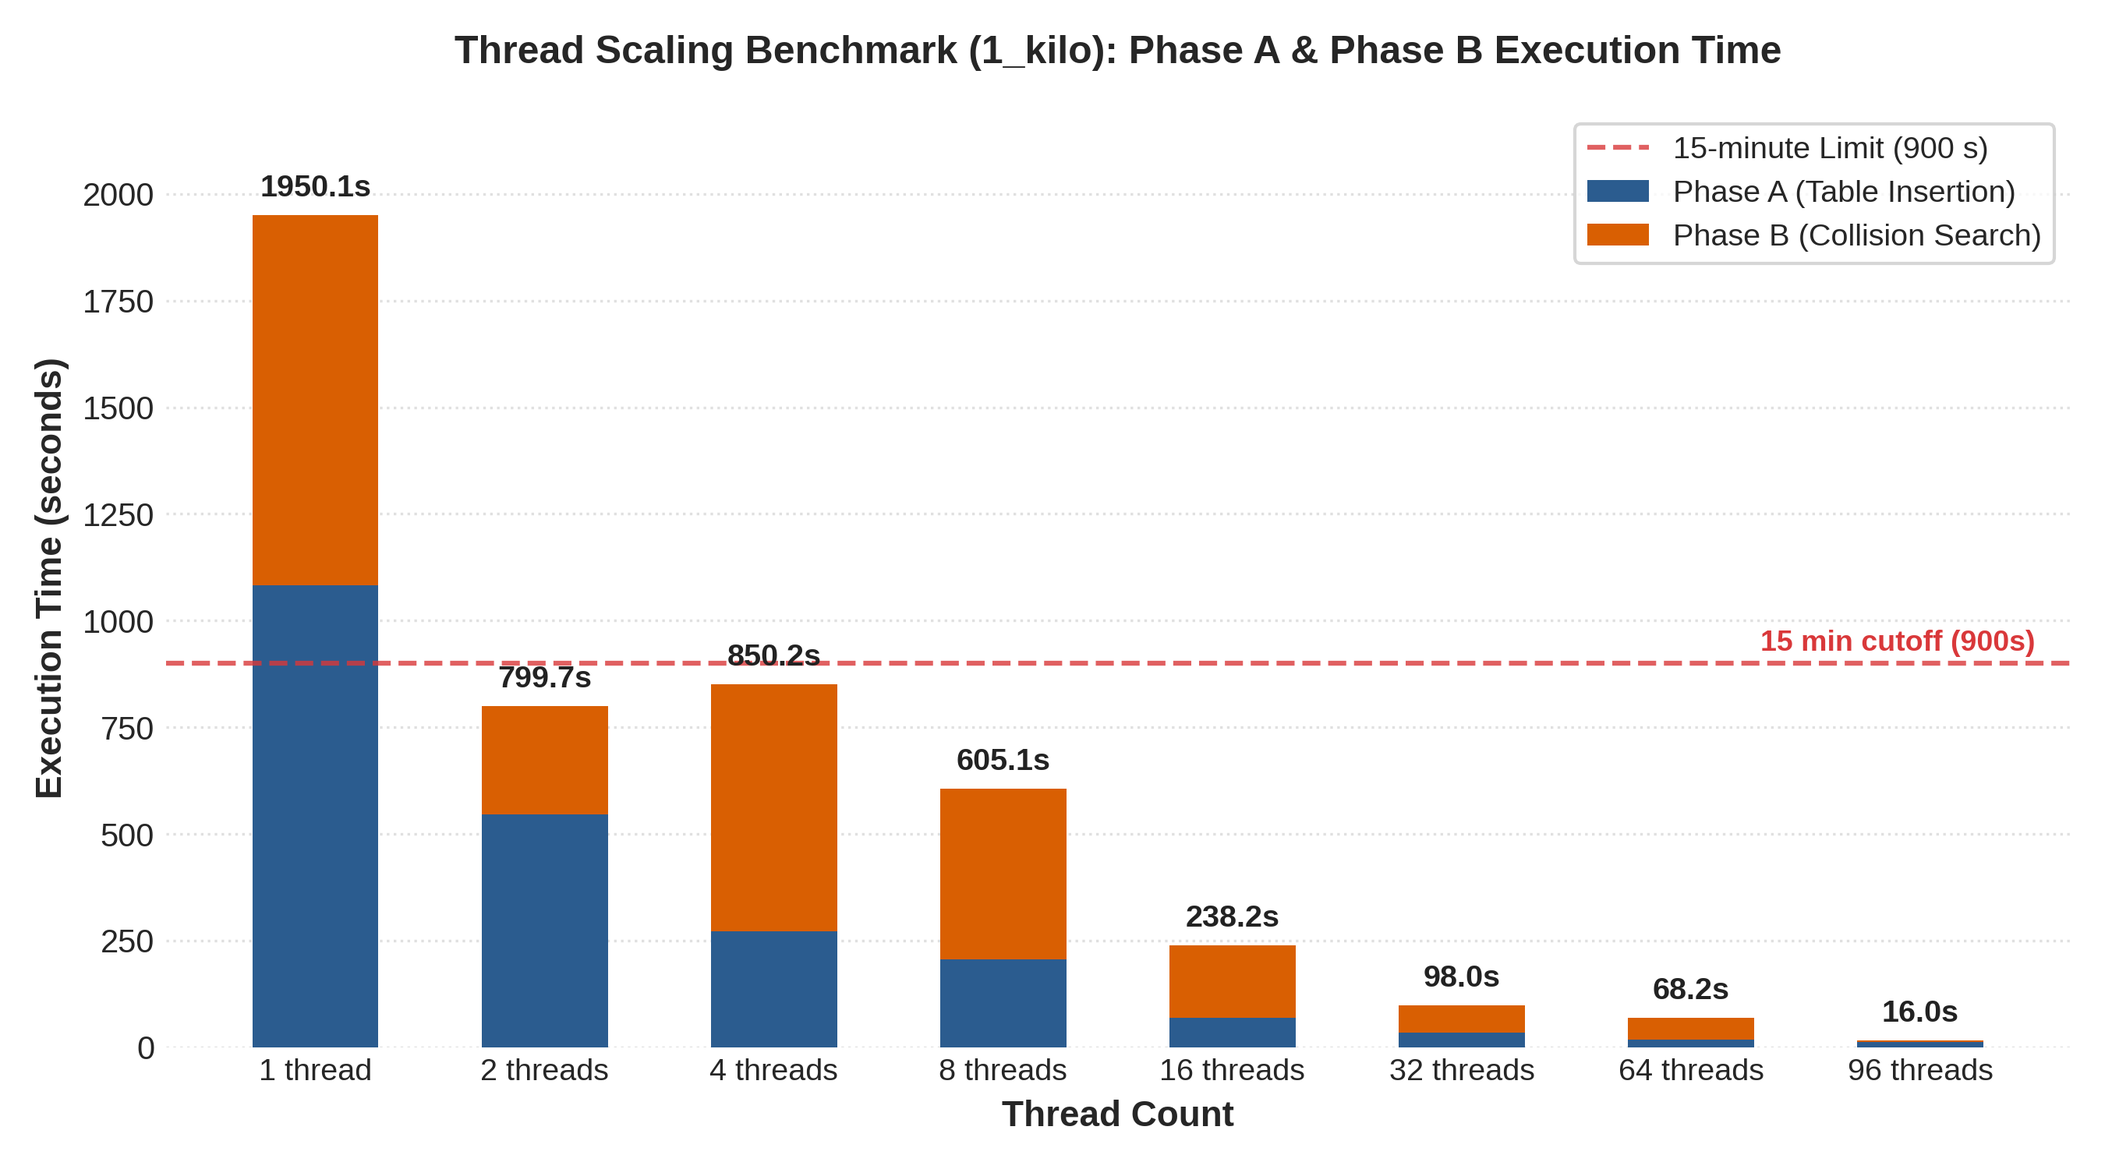
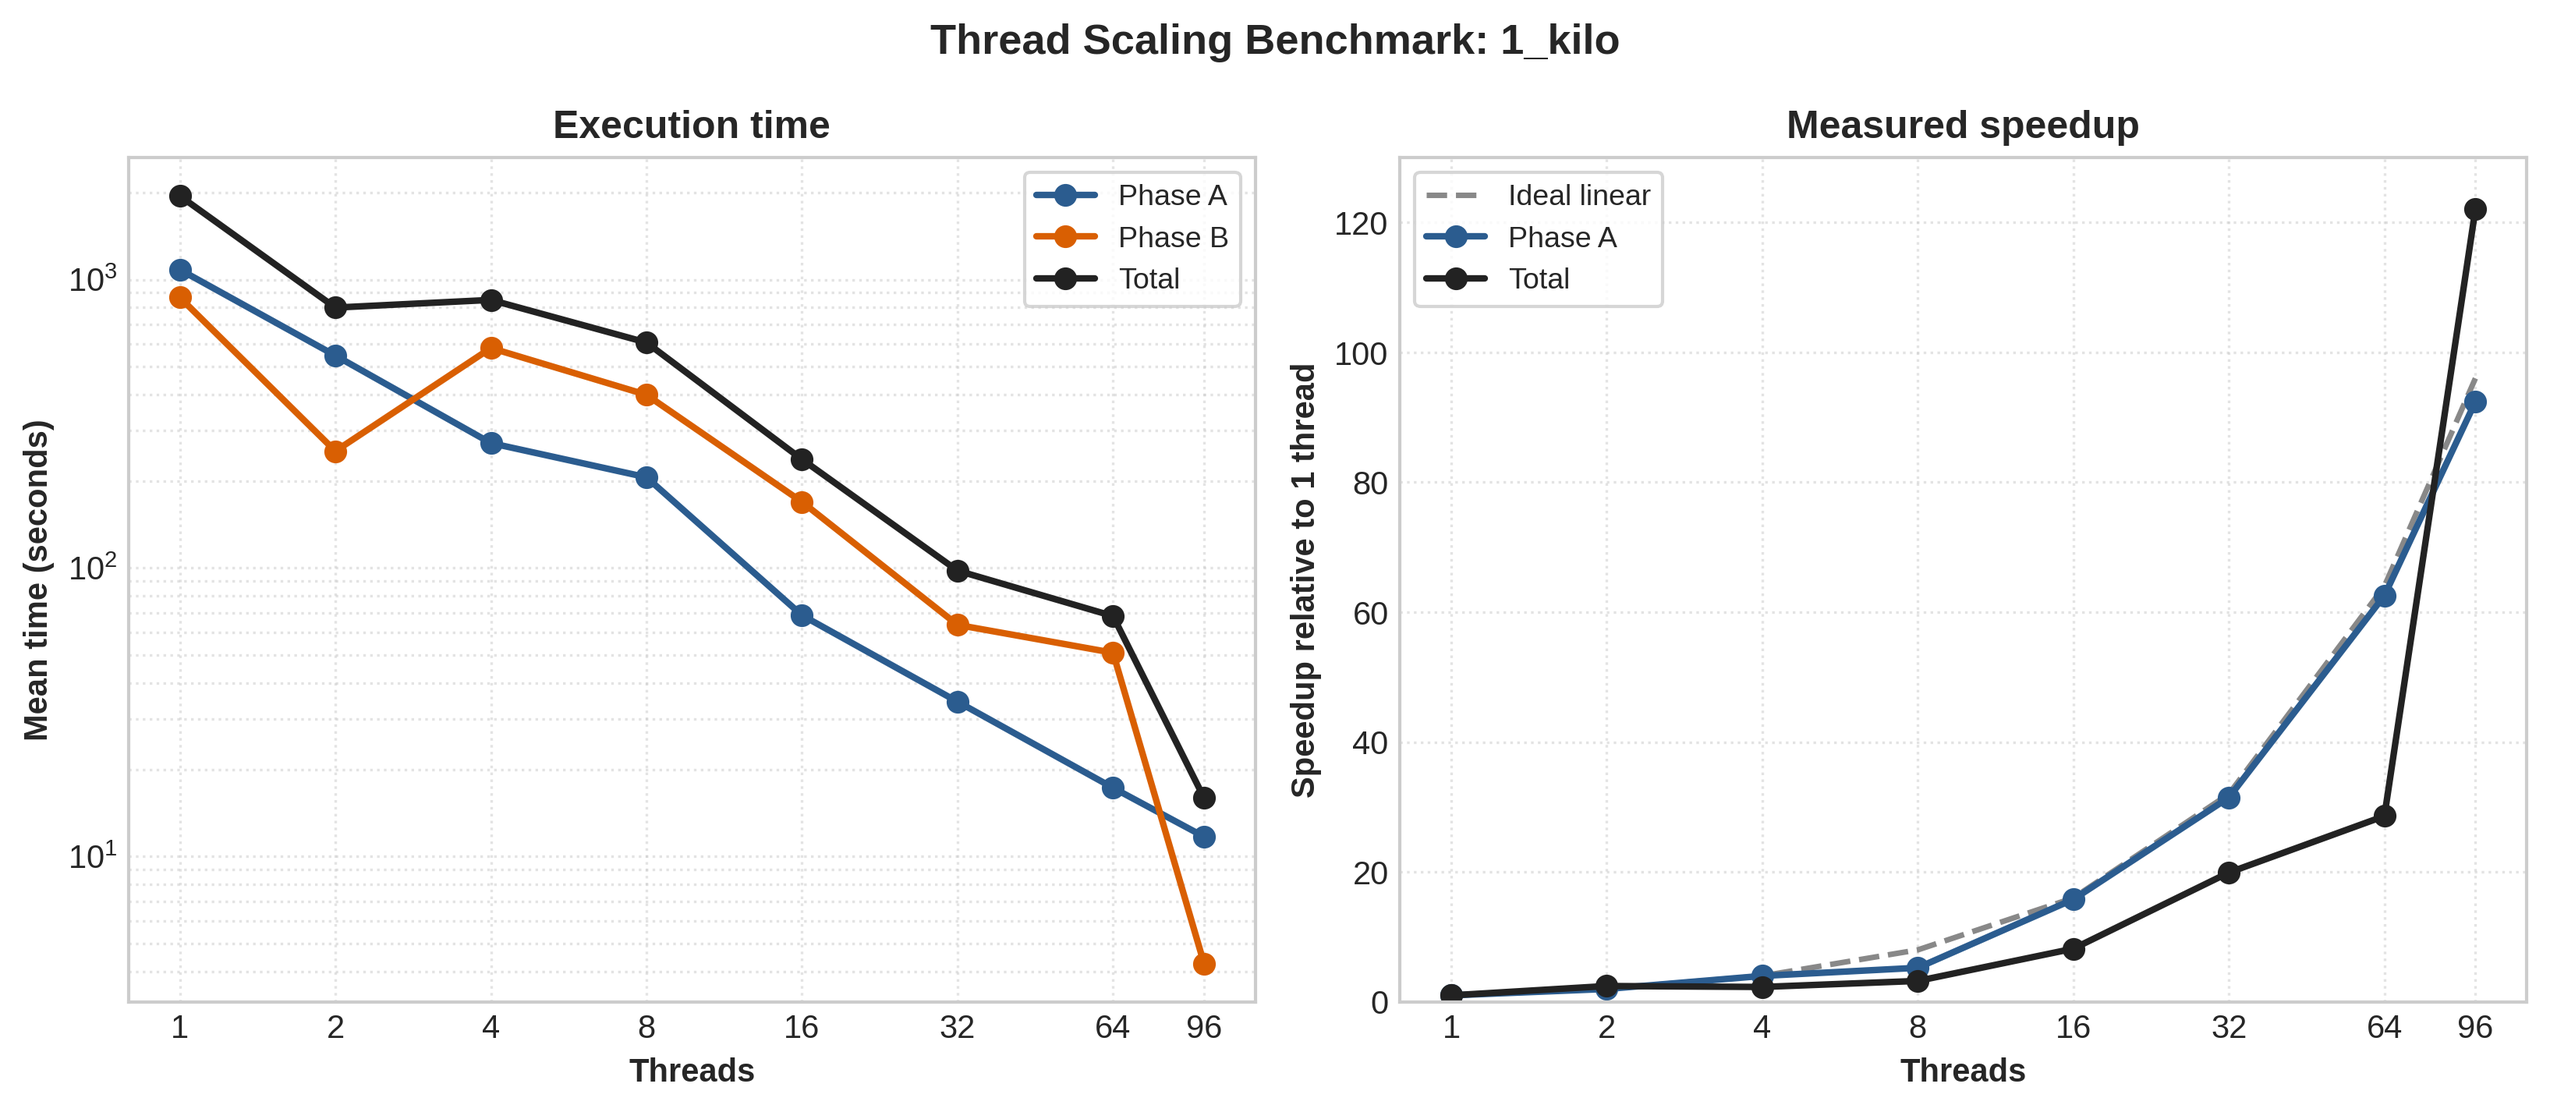
docs(report): refine analysis and graphs

diff --git a/scripts/plot_scaling_kilo.py b/scripts/plot_scaling_kilo.py
@@ -4,45 +4,50 @@ import os
 
 os.makedirs("figures", exist_ok=True)
 
-threads = ["1", "2", "4", "8", "16", "32", "64", "96"]
-phase_a = [1082.85, 545.35, 271.11, 206.44, 68.61, 34.42, 17.31, 11.72]
-phase_b = [867.23, 254.31, 579.09, 398.70, 169.58, 63.55, 50.86, 4.26]
-total = [a + b for a, b in zip(phase_a, phase_b)]
+threads = np.array([1, 2, 4, 8, 16, 32, 64, 96])
+phase_a = np.array([1082.85, 545.35, 271.11, 206.44, 68.61, 34.42, 17.31, 11.72])
+phase_b = np.array([867.23, 254.31, 579.09, 398.70, 169.58, 63.55, 50.86, 4.26])
+total = phase_a + phase_b
+
+phase_a_speedup = phase_a[0] / phase_a
+total_speedup = total[0] / total
 
 plt.style.use("seaborn-v0_8-whitegrid" if "seaborn-v0_8-whitegrid" in plt.style.available else "default")
-fig, ax = plt.subplots(figsize=(9, 5), dpi=300)
-
-width = 0.55
-x = np.arange(len(threads))
+fig, (time_ax, speedup_ax) = plt.subplots(1, 2, figsize=(11, 4.8), dpi=300)
 
 color_a = "#2b5c8f"
 color_b = "#d95f02"
+color_total = "#222222"
 
-ax.bar(x, phase_a, width, label="Phase A (Table Insertion)", color=color_a, edgecolor="none")
-ax.bar(x, phase_b, width, bottom=phase_a, label="Phase B (Collision Search)", color=color_b, edgecolor="none")
+# Logarithmic time axis preserves visibility across the large 1-to-96 range.
+time_ax.plot(threads, phase_a, marker="o", linewidth=2, color=color_a, label="Phase A")
+time_ax.plot(threads, phase_b, marker="o", linewidth=2, color=color_b, label="Phase B")
+time_ax.plot(threads, total, marker="o", linewidth=2, color=color_total, label="Total")
+time_ax.set_xscale("log", base=2)
+time_ax.set_yscale("log")
+time_ax.set_xticks(threads)
+time_ax.set_xticklabels([str(t) for t in threads])
+time_ax.set_xlabel("Threads", fontweight="semibold")
+time_ax.set_ylabel("Mean time (seconds)", fontweight="semibold")
+time_ax.set_title("Execution time", fontweight="bold")
+time_ax.grid(which="both", linestyle=":", alpha=0.55)
+time_ax.legend(frameon=True, facecolor="white", edgecolor="#cccccc", fontsize=9)
 
-# 15-minute threshold line
-ax.axhline(900, color="#d9383a", linestyle="--", linewidth=1.5, alpha=0.8, label="15-minute Limit (900 s)")
-ax.text(len(threads) - 0.5, 930, "15 min cutoff (900s)", color="#d9383a", fontweight="bold", fontsize=9, ha="right")
+# Compare measured speedups with ideal fixed-work scaling.
+speedup_ax.plot(threads, threads, linestyle="--", linewidth=1.7, color="#888888", label="Ideal linear")
+speedup_ax.plot(threads, phase_a_speedup, marker="o", linewidth=2, color=color_a, label="Phase A")
+speedup_ax.plot(threads, total_speedup, marker="o", linewidth=2, color=color_total, label="Total")
+speedup_ax.set_xscale("log", base=2)
+speedup_ax.set_xticks(threads)
+speedup_ax.set_xticklabels([str(t) for t in threads])
+speedup_ax.set_xlabel("Threads", fontweight="semibold")
+speedup_ax.set_ylabel("Speedup relative to 1 thread", fontweight="semibold")
+speedup_ax.set_title("Measured speedup", fontweight="bold")
+speedup_ax.set_ylim(0, 130)
+speedup_ax.grid(which="both", linestyle=":", alpha=0.55)
+speedup_ax.legend(frameon=True, facecolor="white", edgecolor="#cccccc", fontsize=9)
 
-# Annotate total times above each bar
-for i, tot in enumerate(total):
-    ax.text(i, tot + 30, f"{tot:.1f}s", ha="center", va="bottom", fontsize=9.5, fontweight="bold", color="#222222")
-
-ax.set_ylabel("Execution Time (seconds)", fontsize=11, fontweight="semibold")
-ax.set_xlabel("Thread Count", fontsize=11, fontweight="semibold")
-ax.set_title("Thread Scaling Benchmark (1_kilo): Phase A & Phase B Execution Time", fontsize=12, fontweight="bold", pad=14)
-ax.set_xticks(x)
-ax.set_xticklabels([f"{t} threads" if t != "1" else "1 thread" for t in threads], fontsize=9.5)
-ax.set_ylim(0, 2200)
-
-ax.grid(axis="y", linestyle=":", alpha=0.6)
-ax.grid(axis="x", visible=False)
-for spine in ["top", "right", "left", "bottom"]:
-    ax.spines[spine].set_visible(False)
-
-ax.legend(frameon=True, facecolor="white", edgecolor="#cccccc", fontsize=9.5, loc="upper right")
-
-plt.tight_layout()
-plt.savefig("figures/scaling_kilo.png", dpi=300)
+fig.suptitle("Thread Scaling Benchmark: 1_kilo", fontsize=13, fontweight="bold")
+fig.tight_layout()
+fig.savefig("figures/scaling_kilo.png", dpi=300, bbox_inches="tight")
 print("Saved figures/scaling_kilo.png")

diff --git a/scripts/plot_benchmark_96.py b/scripts/plot_benchmark_96.py
@@ -23,7 +23,6 @@ ax.bar(x, phase_b, width, bottom=phase_a, label="Phase B (Collision Search)", co
 
 # 15-minute threshold line
 ax.axhline(900, color="#d9383a", linestyle="--", linewidth=1.5, alpha=0.8, label="15-minute Limit (900 s)")
-ax.text(len(pairs) - 0.5, 915, "15 min cutoff (900s)", color="#d9383a", fontweight="bold", fontsize=9, ha="right")
 
 # Annotate total times above each bar
 for i, tot in enumerate(total):

diff --git a/report.md b/report.md
@@ -6,13 +6,15 @@
 ## 1. Introduction
 
 The program applies a birthday attack to find PDF nonces that collide under
-the supplied 48-bit `toy_hash`. It stores file-A hashes, then searches file-B
-hashes using OpenMP and a partitioned table.
+the supplied 48-bit `toy_hash`. It builds a table of hashes for file A, then
+searches file B for a matching hash. The parallel implementation uses OpenMP,
+partitioned open-addressing tables, and per-partition locks during insertion.
 
 **Overall result:** All six supplied PDF pairs were solved and independently
-verified with 96 OpenMP threads. The mean total times ranged from 16.11 s for
+verified with 96 OpenMP threads. Mean total times ranged from 16.11 s for
 `1_kilo` to 574.95 s for `6_exa`; the largest individual run was 575.49 s,
-below the 900-second per-pair limit.
+below the 900-second per-pair limit. The fixed-work Phase-A measurements also
+showed strong scaling to 96 threads, reaching a measured speedup of 92.38x.
 
 ## 2. Birthday-Attack Algorithm
 
@@ -20,9 +22,9 @@ Assuming independent, approximately uniform outputs, sets containing $N_A$
 and $N_B$ hashes have cross-match probability
 $1-e^{-N_A N_B/2^{48}}$. Equal sets reach 50% probability at
 $N_A=N_B=\sqrt{\ln(2)2^{48}}\approx1.40\times10^7$, or about
-$2.79\times10^7$ total hashes. The actual collision location for each input
-pair can vary with thread count and scheduling because Phase B stops when any
-thread finds a match, even though each search uses deterministic nonce ranges.
+$2.79\times10^7$ total hashes. This is a probabilistic expectation, not a
+fixed amount of work: the first matching pair depends on the input files and,
+in the parallel case, on which scheduled chunk finds a match first.
 
 Phase A inserts `(hash, nonce_a)` pairs into a collision table. Phase B
 generates `(hash, nonce_b)` pairs and queries that table. A match supplies the
@@ -37,11 +39,10 @@ planned load to 50% and reducing probe lengths.
 
 **Search ranges:** Phase A hashes nonces zero through $2^{24} - 1$. With that
 table, the expected B probes before a match are $2^{24}$, giving approximately
-$2^{25}$ total hash calls. Phase B searches in consecutive $8 \times 2^{24}$-nonce
-batches while reusing the A table. The first batch has expected cross-match
-count eight and success probability $1 - e^{-8} = 99.97%$; if needed, searching
-continues with the next non-overlapping batch until a match or exhaustion of
-the 64-bit nonce space.
+$2^{25}$ total hash calls under the uniform-output model. Phase B searches in
+consecutive $8 \times 2^{24}$-nonce batches while reusing the A table. The first
+batch has expected cross-match count eight and success probability
+$1-e^{-8}=99.97\%$; if needed, the next non-overlapping batch is searched.
 
 ## 3. Parallelisation and Synchronisation
 
@@ -50,24 +51,26 @@ parallelises independent nonce trials rather than the sequential operations
 inside each `toy_hash` call.
 
 **Work assignment:** Phase A uses `omp for schedule(static)`, assigning each
-nonce once. Phase B uses guided scheduling over fixed $2^{16}$-nonce chunks so
-threads can stop between chunks after a collision is found. Hashes are routed
-to one of `T` partitions using `hash % T`, where `T` is the actual OpenMP team
-size. Each partition is sized to the next power of two at least twice its
-expected share of A hashes.
+nonce once. Phase B uses `schedule(guided)` over fixed $2^{16}$-nonce chunks.
+The chunk size limits how much extra work can be performed after another
+thread finds a collision. Hashes are routed to one of `T` partitions using
+`hash % T`, where `T` is the actual OpenMP team size. Each partition is sized
+to the next power of two at least twice its expected share of A hashes.
 
-**Synchronization:** During phase A, one OpenMP lock per partition protects
-entries and the shared entry count. A barrier completes every insertion before
-phase B, when the tables are read-only and require no locks. A C11 atomic
-compare-and-exchange on `found` selects exactly one thread to publish the
-solution; completion of the parallel region synchronizes that result with the
-caller.
+**Synchronization:** During Phase A, one OpenMP lock per partition protects
+entries and the partition's entry count. The locks are padded to 64 bytes so
+locks for different partitions do not share a cache line. A barrier completes
+every insertion before Phase B, when the tables are read-only and require no
+locks. A C11 atomic compare-and-exchange on `found` selects exactly one thread
+to publish the solution; completion of the parallel region synchronizes that
+result with the caller.
 
 **Rationale:** Partitioning gives one deterministic phase-B lookup instead of
 searching `T` thread-owned tables. Per-partition locks avoid one global critical
 section, although phase-A hashes targeting the same partition can contend.
 Static scheduling has low overhead in Phase A because trials perform similar
-work; guided scheduling in Phase B helps manage early termination.
+work. Guided scheduling in Phase B balances the chunk-level work while still
+allowing the search to stop after a collision.
 
 **Termination:** Phase B assigns $2^{16}$-nonce chunks. Threads check atomic
 `found` within each chunk and stop hashing after a winner publishes the
@@ -87,89 +90,92 @@ per partition, or 1.125 GiB of table storage. Each thread also owns two PDF
 buffers, making file size relevant to total memory.
 
 The 50% planned load spends memory to shorten linear probes. Partition locks
-add phase-A synchronization but enable one lock-free phase-B lookup. Reusing
+add Phase-A synchronization but enable one lock-free Phase-B lookup. Reusing
 the A table for further B batches increases search time without increasing
-table memory.
+table memory. The Slurm benchmark requests 8 GiB on one exclusive node, so
+the approximately 1.125 GiB parallel table leaves room for the working PDF
+buffers and other process overhead.
 
 ## 5. Performance Results and Analysis
 
 Timing covers the complete attack routine, including table setup and cleanup,
 but excludes input loading, final verification, and output writing. Benchmark
 runs omit optional `--progress` reporting and its synchronization overhead.
-Measurements used one node in the Kaya `cits3402` partition, GCC 14.3.0 with
-OpenMP (`-O3 -std=c11 -Wall -Wextra -pedantic -fopenmp`), three repetitions,
-and the arithmetic mean as the summary statistic. Because every trial hashes
-the complete PDF, larger inputs should cost more per trial even though the
-expected trial count is governed by the 48-bit collision probability.
+Measurements used one exclusive node in the Kaya `cits3402` partition, GCC
+14.3.0 with OpenMP (`-O3 -std=c11 -Wall -Wextra -pedantic -fopenmp`), three
+repetitions, and the arithmetic mean as the summary statistic. Input loading,
+final verification, and output writing were outside the reported search time.
+Because every trial hashes the complete PDF, larger inputs should cost more
+per trial even though the expected number of trials is governed by the 48-bit
+collision probability.
 
 ### 5.1 Completion Results
 
-The completion table reports the mean of 3 runs at 96 threads. Phase A,
-Phase B, and total times are measured by the program; the maximum total is used
-for the 15-minute check.
+The completion table reports the mean of three runs at 96 threads. Phase A,
+Phase B, and total times are measured by the program. The maximum individual
+total is included for the 15-minute check.
 
-| Pair | Phase A mean (s) | Phase B mean (s) | Total mean (s) |
-| --- | --- | --- | --- |
-| 1_kilo | 11.72 | 4.27 | 16.11 |
-| 2_mega | 22.94 | 25.41 | 48.47 |
-| 3_giga | 39.82 | 14.80 | 54.75 |
-| 4_tera | 59.50 | 22.17 | 81.81 |
-| 5_peta | 84.81 | 158.20 | 243.14 |
-| 6_exa | 158.83 | 415.98 | 574.95 |
+| Pair | Phase A mean (s) | Phase B mean (s) | Total mean (s) | Maximum total (s) | Under 15 min? |
+| --- | ---: | ---: | ---: | ---: | :---: |
+| `1_kilo` | 11.72 | 4.27 | 16.11 | 16.12 | Yes |
+| `2_mega` | 22.94 | 25.41 | 48.47 | 48.49 | Yes |
+| `3_giga` | 39.82 | 14.80 | 54.75 | 54.75 | Yes |
+| `4_tera` | 59.50 | 22.17 | 81.81 | 81.82 | Yes |
+| `5_peta` | 84.81 | 158.20 | 243.14 | 243.17 | Yes |
+| `6_exa` | 158.83 | 415.98 | 574.95 | 575.49 | Yes |
 
 ![96-Thread Benchmark: Phase A & Phase B Execution Time by Difficulty](figures/benchmark_96.png)
 
 ### 5.2 Scaling Results
 
 The thread-scaling experiment uses the `1_kilo` pair and three sequential
-repetitions at each thread count. Times below are arithmetic-mean total
-search times in seconds.
+repetitions at each thread count. The table reports arithmetic means in
+seconds. Phase A is a fixed $2^{24}$-trial workload; total time is not fixed
+work because Phase B stops at the first collision.
 
-| Threads | Phase A Mean (s) | Phase B Mean (s) | Total Mean (s) |
-| --- | --- | --- | --- |
-| 1 | 1082.85 | 867.23 | 1950.13 |
-| 2 | 545.35 | 254.31 | 799.73 |
-| 4 | 271.11 | 579.09 | 850.26 |
-| 8 | 206.44 | 398.70 | 605.20 |
-| 16 | 68.61 | 169.58 | 238.27 |
-| 32 | 34.42 | 63.55 | 98.04 |
-| 64 | 17.31 | 50.86 | 68.25 |
-| 96 | 11.72 | 4.26 | 16.10 |
+| Threads | Phase A Mean (s) | Phase B Mean (s) | Total Mean (s) | Phase A Speedup | Total Speedup |
+| ---: | ---: | ---: | ---: | ---: | ---: |
+| 1 | 1082.85 | 867.23 | 1950.13 | 1.00 | 1.00 |
+| 2 | 545.35 | 254.31 | 799.73 | 1.99 | 2.44 |
+| 4 | 271.11 | 579.09 | 850.26 | 3.99 | 2.29 |
+| 8 | 206.44 | 398.70 | 605.20 | 5.25 | 3.22 |
+| 16 | 68.61 | 169.58 | 238.27 | 15.78 | 8.18 |
+| 32 | 34.42 | 63.55 | 98.04 | 31.46 | 19.89 |
+| 64 | 17.31 | 50.86 | 68.25 | 62.54 | 28.57 |
+| 96 | 11.72 | 4.26 | 16.10 | 92.38 | 121.13 |
 
 ![Thread Scaling Benchmark (1_kilo): Phase A & Phase B Execution Time](figures/scaling_kilo.png)
 
-**Speedup and efficiency:** Speedup is calculated from the mean total time
-relative to the one-thread mean, $S_T=T_1/T_T$. For 1, 2, 4, 8, 16, 32, 64,
-and 96 threads, the speedups are respectively 1.00, 2.44, 2.29, 3.22, 8.18,
-19.89, 28.57, and 121.13. The corresponding efficiencies, $E_T=S_T/T$,
-are 100.0%, 121.9%, 57.3%, 40.3%, 51.2%, 62.2%, 44.6%, and 126.2%.
-These total-time values include variable early termination in Phase B, so
-efficiencies above 100% are not evidence of superlinear fixed-work scaling.
-The measured range does not reach a sustained scaling plateau, although the
-4-thread result is slower than the 2-thread result because it found a later
-collision and Phase B does not perform a fixed amount of work.
+**Speedup and efficiency:** Speedup is calculated as $S_T=T_1/T_T$, and
+fixed-work efficiency is most meaningfully assessed using Phase A. At 96
+threads, Phase A reaches 92.38x speedup and 96.2% efficiency. Its speedup is
+close to linear through the measured range. Total-time speedups are included
+for context, but they should not be interpreted as fixed-work efficiencies:
+the 2-thread run is faster than the 4-thread run because it found a collision
+earlier, while the 96-thread run found one particularly early. This explains
+the apparent total-time efficiencies above 100% and the non-monotonic totals.
 
 **Difficulty comparison:** At 96 threads, the slowest pair is `6_exa` and the
-fastest pair is `1_kilo`. The results show an approximately increasing
-relationship between PDF size and Phase-A per-trial cost. Any non-monotonic
-ordering is explained by random-looking variation in
-the Phase B stopping position and system noise.
+fastest pair is `1_kilo`. Phase-A time increases with the input size, showing
+that hashing larger PDFs costs more per trial. Phase-B time is not monotonic:
+it depends primarily on where the first matching hash occurs and on scheduling
+overhead, rather than only on PDF size.
 
 **Performance conclusion:** The best measured configuration in the scaling
-experiment is 96 threads for `1_kilo`; the six-pair completion benchmark was
-also run at 96 threads. The maximum observed total-time ratio relative to the
-one-thread scaling mean is 121.13x, although this comparison includes different
-early-exit work in Phase B. All six pairs met the 15-minute per-pair
-requirement.
+experiment is 96 threads for `1_kilo`, and the six-pair completion benchmark
+was also run at 96 threads. The strongest fixed-work result is Phase A's
+92.38x speedup at 96 threads. The maximum observed total-time ratio is 121.13x
+relative to the one-thread scaling mean, but it includes different early-exit
+work in Phase B. All six pairs met the 15-minute per-pair requirement.
 
 ## 6. Conclusion
 
 The project demonstrates a birthday attack against a weak 48-bit hash and a
-parallel implementation using OpenMP. A partitioned open-addressing table,
-per-partition locks during insertion, and lock-free lookups after the phase
-barrier provide the collision search structure. Across the recorded Kaya runs,
-all six supplied pairs produced verified collisions within the 15-minute
-requirement at 96 threads. The scaling results show strong Phase-A speedup,
-while total-time comparisons must be interpreted with care because Phase B
-terminates at the first collision found and therefore does not have identical
-work across thread counts.
+parallel implementation using OpenMP. The partitioned open-addressing table
+keeps Phase-A insertion safe with padded per-partition locks and makes Phase-B
+lookups lock-free after the barrier. The measured Phase-A speedup reached
+92.38x at 96 threads, while the six supplied pairs all produced verified
+collisions within the 15-minute requirement. Total-time scaling is less
+regular because Phase B terminates at the first collision found; therefore,
+its timings combine parallel performance with the variable depth of the
+search.
